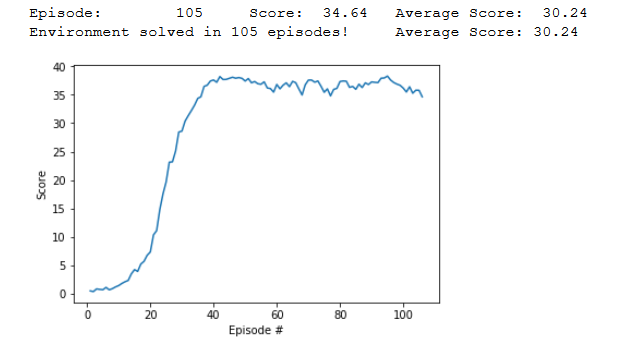
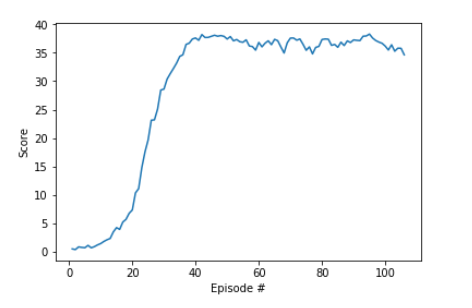
refr: added plot of rewards to Report.md

Changed region(s): [[0.0297, 0.0, 0.9492, 0.9643], [0.2076, 0.526, 0.2966, 0.789], [0.2669, 0.3506, 0.3263, 0.5844]]

diff --git a/Report.md b/Report.md
@@ -55,7 +55,7 @@ GAMMA = 0.99 - discount factor
 
 ###Plot of rewards 
 
-The environment has been solved (mean score over 100 episodes was higher than 13) in less than 500 episodes.  
+The environment has been solved (mean score over 100 episodes was higher than 30) in around 105 episodes.  
 ![mean score](result_plot.png)  
 
 Actor's weights are stored in 'checkpoint_actor.pth'
